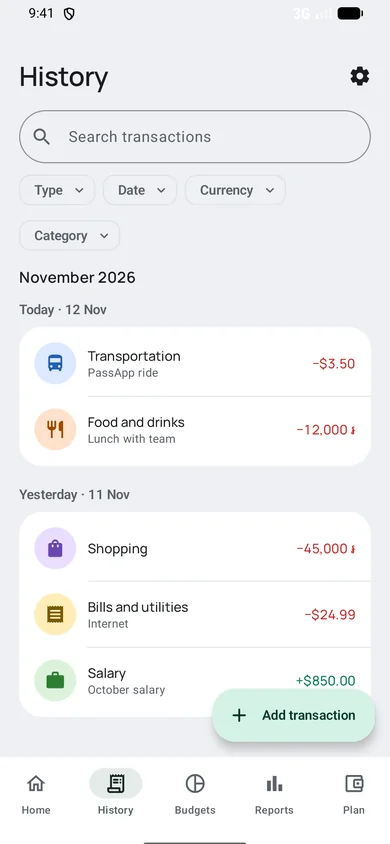
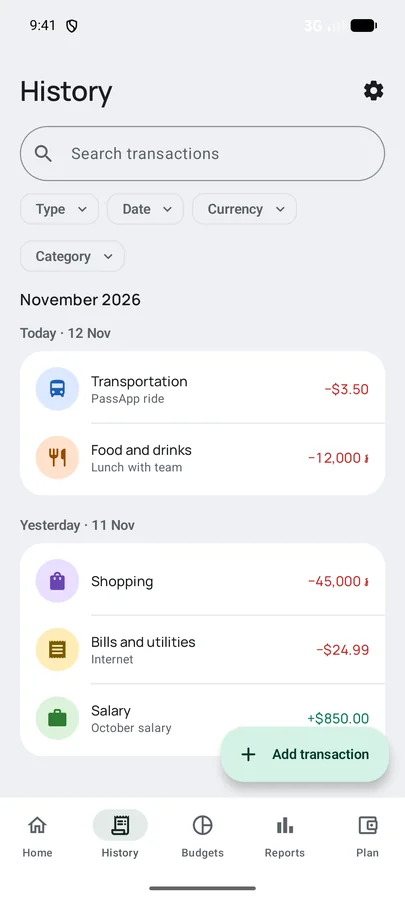
Fit phone screenshots fully inside their frames

diff --git a/index.html b/index.html
@@ -297,9 +297,9 @@
           <article class="project-card reveal" aria-labelledby="p3-title" style="--d: 2">
             <!-- Screenshots: RielTrack 1.6 with sample data, taken on an Android emulator -->
             <div class="project-card__media project-card__media--phones">
-              <div class="phone"><img src="assets/images/rieltrack.webp" alt="RielTrack home screen: net cash flow this month, monthly budget left and recent transactions" width="390" height="844" loading="lazy" decoding="async"></div>
-              <div class="phone"><img src="assets/images/rieltrack-2.webp" alt="RielTrack history: transactions in US dollars and riel, grouped by day" width="390" height="844" loading="lazy" decoding="async"></div>
-              <div class="phone"><img src="assets/images/rieltrack-3.webp" alt="RielTrack budgets: overall monthly limit with spent, limit and amount left" width="390" height="844" loading="lazy" decoding="async"></div>
+              <div class="phone"><img src="assets/images/rieltrack.webp" alt="RielTrack home screen: net cash flow this month, monthly budget left and recent transactions" width="405" height="900" loading="lazy" decoding="async"></div>
+              <div class="phone"><img src="assets/images/rieltrack-2.webp" alt="RielTrack history: transactions in US dollars and riel, grouped by day" width="405" height="900" loading="lazy" decoding="async"></div>
+              <div class="phone"><img src="assets/images/rieltrack-3.webp" alt="RielTrack budgets: overall monthly limit with spent, limit and amount left" width="405" height="900" loading="lazy" decoding="async"></div>
             </div>
             <div class="project-card__body">
               <div class="project-card__info">

diff --git a/css/style.css b/css/style.css
@@ -508,8 +508,8 @@ main { counter-reset: section; }
   padding: 6% 4%;
 }
 .phone {
+  flex: none; /* never squeezed: the frame takes its width from the screenshot */
   height: 100%;
-  aspect-ratio: 390 / 844;
   padding: 3px;
   border: 1px solid var(--border); /* taste-skill-ignore */
   border-radius: clamp(14px, 2.2vw, 28px);
@@ -517,7 +517,7 @@ main { counter-reset: section; }
   overflow: hidden;
   transition: transform var(--dur-base) var(--ease-out);
 }
-.phone img { width: 100%; height: 100%; object-fit: cover; border-radius: calc(clamp(14px, 2.2vw, 28px) - 3px); }
+.phone img { width: auto; height: 100%; border-radius: calc(clamp(14px, 2.2vw, 28px) - 3px); }
 .phone:nth-child(2) { transform: translateY(-4%); }
 .project-card:hover .phone { transform: translateY(-2%); }
 .project-card:hover .phone:nth-child(2) { transform: translateY(-6%); }

diff --git a/CLAUDE.md b/CLAUDE.md
@@ -163,6 +163,7 @@ Owner approved after a design review:
 - **RielTrack screenshots**: none on GitHub or in `E:\RielTrack Project`. Taken by the agent: public 1.6 APK (SHA-256 checked) on the `Pixel_API37` emulator, the app's own preview sample data entered by hand (salary $850, lunch ៛12,000, PassApp $3.50, internet $24.99, shopping ៛45,000, $500 monthly limit), Android demo-mode status bar 9:41. Home / History / Budgets → `assets/images/rieltrack.webp`, `-2`, `-3` (390×844, ~20 KB each), in phone frames like idevo.
 - Featured card (≥1024px) `align-items: center`, so the screenshot no longer floats at the top with empty space under it.
 - Checks: lint 0/0; inspector 0 FAIL, same 3 WARNs; Lighthouse mobile (gzip) 100/100/100/100, LCP 1.8s, CLS 0, page 254 KiB, no console errors. CSS 29,821 bytes.
+- **Phone frames fixed**: `.phone` had `aspect-ratio: 390/844` on its border-box (3px padding + 1px border) and `object-fit: cover`, so screenshots lost their left/right edges ("Plan", "Hard" cut). Now `.phone { flex: none }` and `.phone img { width: auto; height: 100% }`: the frame takes its width from each screenshot, nothing is cropped. RielTrack images re-exported at the emulator's real 9:20 (405×900, no crop); idevo stays 390×844. Checked at 1440/800/768/390.
 - **Owner decision (2026-11-12): no "Private repo" label on any card.** Removed all three; DESIGN.md §6 step 7 and §8.3 updated. Public repo → add a "View code" button (comment above the projects in `index.html`).
 
 ### Note about the earlier session
